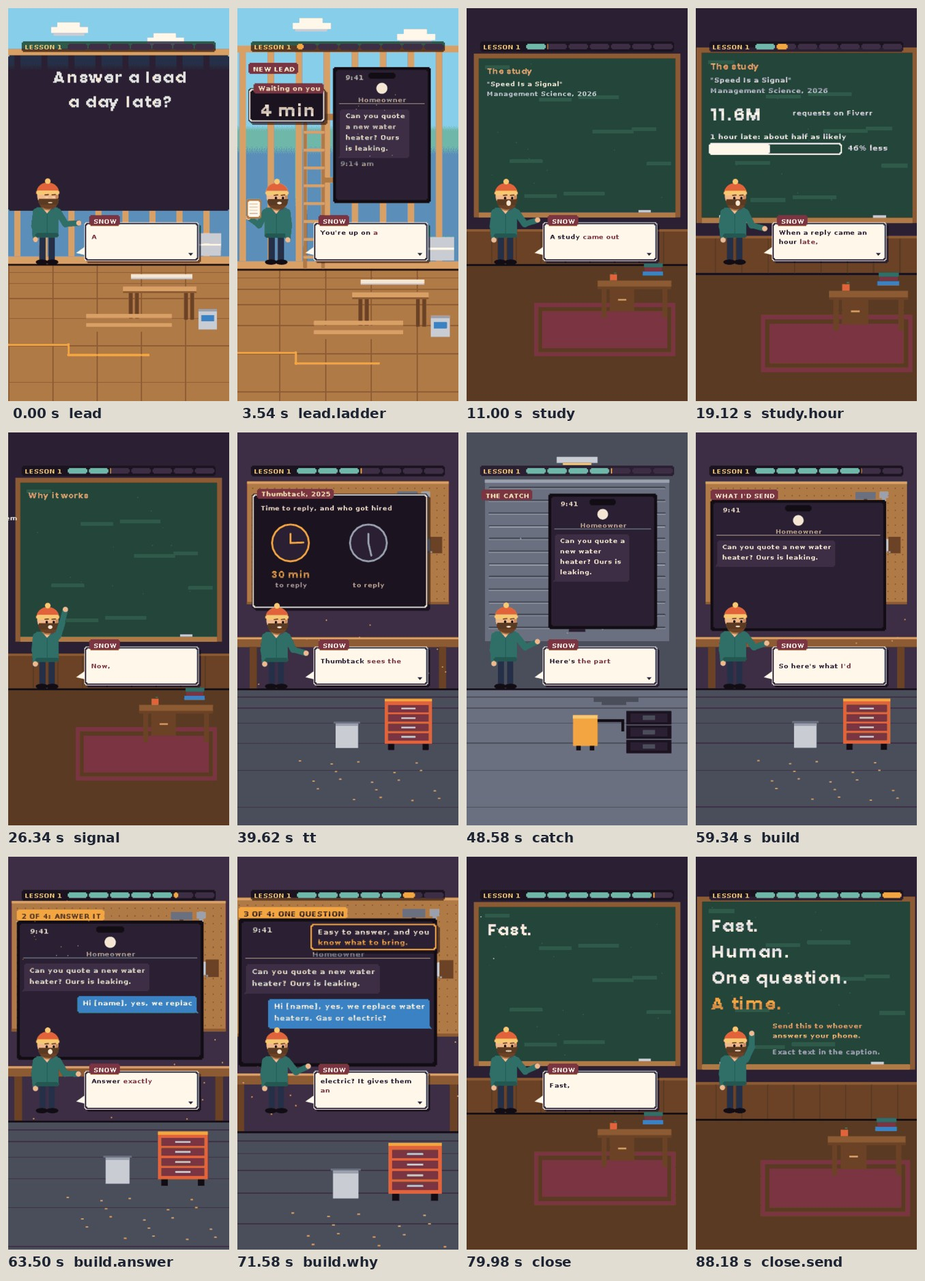
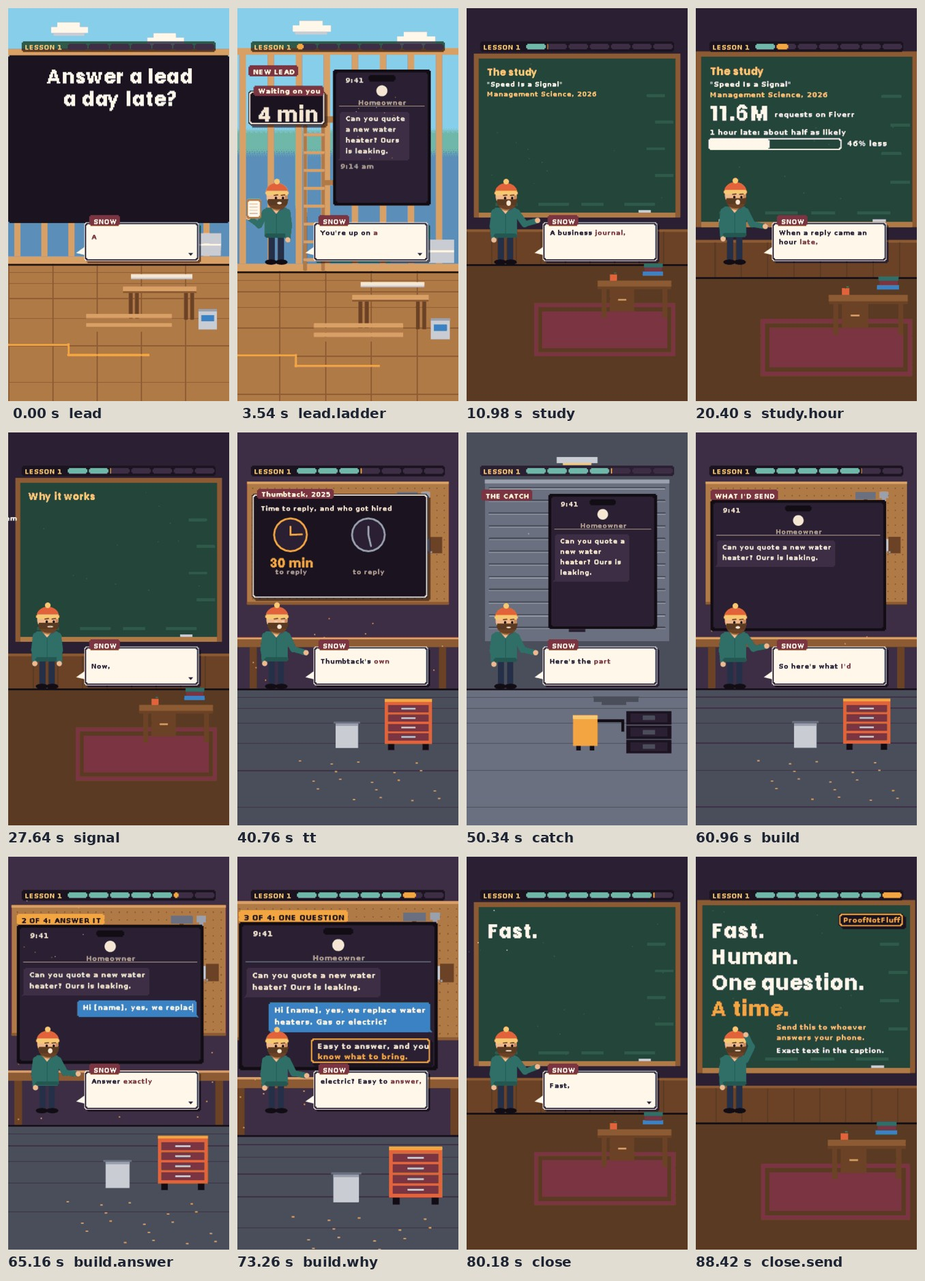
Studio: lesson 1 test video in Todd's voice; gates round 2 (critic, design FAIL twice; golden FAIL), stopped for Todd; remix command and mix compressor; layout fixes
Claude-Session: https://claude.ai/code/session_01XMn4eLbiXetQKQj9iFTZsH

diff --git a/video/studio/videos/2026-10-28-first-reply/04_scene/scene.js b/video/studio/videos/2026-10-28-first-reply/04_scene/scene.js
@@ -16,21 +16,23 @@ window.SCENE = {
   images: [],
   host_name: 'Snow',
   hud: 'LESSON 1',
-  focus: {'study.count': [300, 520], 'study.hour': [400, 660], 'study.day': [400, 780], 'signal.alone': [400, 680],
-          'tt.more': [500, 800], 'catch.canned': [665, 880], 'build.why': [650, 410], 'close.send': [600, 860]},
+  focus: {'study.count': [300, 520], 'study.hour': [400, 660], 'study.day': [400, 730], 'signal.alone': [400, 650],
+          'tt.more': [500, 740], 'catch.canned': [665, 880], 'build.why': [650, 880], 'close.send': [600, 800]},
   sections: {
     lead: (k, T) => {
       const n = k.data.numbers;
       k.room('framing');
       if (T < HOOK_END) {   // the hook card: the number that makes a pro stop scrolling
-        k.shape(k.rectPts(0, 230, 1080, 760, 0), {fill: '#120D14', line: false, alpha: 0.82});
-        k.slam('Answer a lead', 540, 280, -1, {size: 120, color: CHALK, align: 'center'});
-        k.slam('a day late?', 540, 400, -1, {size: 120, color: CHALK, align: 'center'});
-        k.slam(`${n.dayDrop.shown} less`, 540, 540, 0.3, {size: 240, color: 'accent', align: 'center', from: 1.4, shake: 8});
-        k.slam('likely to get hired.', 540, 790, 0.55, {size: 120, color: CHALK, align: 'center'});
-        k.burst(540, 640, 0.35, {n: 26, r: 380});
-        k.text(`Management Science, ${n.studyYear.shown} (Fiverr data)`, 540, 920, {size: 39, color: '#E6D3BC', align: 'center', alpha: k.clamp(T / 0.3)});
-        return {hostPose: k.talking() ? 'talk' : 'stand'};
+        // the host steps aside for the hook, so nothing covers the claim or its source (gates, Oct 28)
+        k.shape(k.rectPts(0, 230, 1080, 820, 0), {fill: '#1B1420', line: false});
+        k.slam('Answer a lead', 540, 270, -1, {size: 120, color: CHALK, align: 'center'});
+        k.slam('a day late?', 540, 380, -1, {size: 120, color: CHALK, align: 'center'});
+        k.slam(n.dayDrop.shown, 540, 470, 0.3, {size: 330, color: 'accent', align: 'center', from: 1.4, shake: 8});
+        k.slam('less likely', 540, 770, 0.55, {size: 120, color: 'accent', align: 'center'});
+        k.slam('to get hired.', 540, 870, 0.7, {size: 120, color: CHALK, align: 'center'});
+        k.burst(540, 620, 0.35, {n: 26, r: 380});
+        k.text(`Fiverr study, Management Science ${n.studyYear.shown}`, 540, 990, {size: 39, color: '#E6D3BC', align: 'center', alpha: k.clamp(T / 0.3)});
+        return {host: false};
       }
       k.ctx.save(); slideIn(k, HOOK_END, -500, 0); k.chip('New lead', 72, 280, {size: 30}); k.ctx.restore();
       k.ctx.save(); slideIn(k, HOOK_END + 0.1, 600, 0);
@@ -68,13 +70,14 @@ window.SCENE = {
       k.slam('The study', 96, 280, k.S('study'), {size: 60, color: CHALK2, from: 0.5});
       k.ctx.save(); slideIn(k, k.S('study') + 0.25, -600, 0);
       k.text('"Speed Is a Signal"', 96, 352, {size: 39, color: CHALK});
-      k.text(`Management Science, ${n.studyYear.shown}`, 96, 398, {size: 39, color: '#C9CCD3'});
+      k.text(`Management Science, ${n.studyYear.shown}`, 96, 398, {size: 39, color: CHALK2});
       k.ctx.restore();
       if (T >= k.S('study.count')) {
         const p = k.lin(k.S('study.count'), k.S('study.count') + 1.2);
-        k.slam(k.count(n.interactions.value, p, {dec: 1, suffix: 'M'}), 96, 470, k.S('study.count'), {size: 120, color: CHALK, from: 0.6});
-        if (p >= 1) k.burst(250, 530, k.S('study.count') + 1.2, {n: 14, colors: ['paper', 'accent2']});
-        k.ctx.save(); slideIn(k, k.S('study.count') + 0.3, 400, 0); k.text('requests on Fiverr', 470, 500, {size: 39, color: CHALK}); k.ctx.restore();
+        const big = k.count(n.interactions.value, 1, {dec: 1, suffix: 'M'}), bx = 96 + k.measure(big, {size: 120}) + 24;
+        k.slam(k.count(n.interactions.value, p, {dec: 1, suffix: 'M'}), 96, 440, k.S('study.count'), {size: 120, color: CHALK, from: 0.6});
+        if (p >= 1) k.burst(250, 500, k.S('study.count') + 1.2, {n: 14, colors: ['paper', 'accent2']});
+        k.ctx.save(); slideIn(k, k.S('study.count') + 0.3, 400, 0); k.text('requests on Fiverr', bx, 490, {size: 39, color: CHALK}); k.ctx.restore();
       }
       const bar = (y, label, v, shown, t0, hot) => {
         if (T < t0) return;
@@ -85,8 +88,8 @@ window.SCENE = {
         if (p > 0.6) k.slam(`${shown} less`, 720, y + 50, t0 + 0.45, {size: 39, color: hot ? 'accent' : CHALK, from: 1.2});
         if (hot) k.burst(96 + 600 * (v / 100), y + 74, t0 + 0.7, {n: 18});
       };
-      bar(610, '1 hour late: about half as likely', n.hourDrop.value, n.hourDrop.shown, k.S('study.hour'), false);
-      bar(740, '1 day late:', n.dayDrop.value, n.dayDrop.shown, k.S('study.day'), true);
+      bar(570, '1 hour late: about half as likely', n.hourDrop.value, n.hourDrop.shown, k.S('study.hour'), false);
+      bar(690, '1 day late:', n.dayDrop.value, n.dayDrop.shown, k.S('study.day'), true);
       return {};
     },
 
@@ -101,10 +104,10 @@ window.SCENE = {
       }
       if (T >= k.S('signal.alone')) {
         const t0 = k.S('signal.alone');
-        k.slam('It helped on its own:', 96, 620, t0, {size: 39, color: CHALK2, from: 0.5});
-        k.ctx.save(); slideIn(k, t0 + 0.2, -600, 0); k.text('same work, same message,', 96, 676, {size: 39, color: CHALK}); k.ctx.restore();
-        k.ctx.save(); slideIn(k, t0 + 0.4, -600, 0); k.text('faster reply still won.', 96, 726, {size: 39, color: CHALK}); k.ctx.restore();
-        k.sweep(96, 790, 560, 9, t0 + 0.7, {color: 'accent'});
+        k.slam('It helped on its own:', 96, 590, t0, {size: 39, color: CHALK2, from: 0.5});
+        k.ctx.save(); slideIn(k, t0 + 0.2, -600, 0); k.text('same work, same message,', 96, 644, {size: 39, color: CHALK}); k.ctx.restore();
+        k.ctx.save(); slideIn(k, t0 + 0.4, -600, 0); k.text('faster reply still won.', 96, 694, {size: 39, color: CHALK}); k.ctx.restore();
+        k.sweep(96, 756, 560, 9, t0 + 0.7, {color: 'accent'});
       }
       return {hostPose: k.talking() ? 'point' : 'stand', hostAt: [400, 480]};
     },
@@ -113,7 +116,7 @@ window.SCENE = {
       const n = k.data.numbers;
       k.room('workshop');
       k.ctx.save(); slideIn(k, k.S('tt'), 0, 700);
-      k.panel2(72, 300, 858, 560, {title: 'Thumbtack, 2025'});
+      k.panel2(72, 300, 858, 510, {title: 'Thumbtack, 2025'});
       k.text('Time to reply, and who got hired', 112, 350, {size: 39, color: 'ink'});
       const clock = (cx, cy, r, turns, c, t0) => {
         k.shape(k.ellPts(cx, cy, r, r, 20), {fill: '#2B2033', stroke: c, lw: 9, line: false});
@@ -121,19 +124,19 @@ window.SCENE = {
         k.shape([[cx, cy], [cx + Math.cos(ang) * r * 0.7, cy + Math.sin(ang) * r * 0.7]], {stroke: c, lw: 9, closed: false, line: false});
         k.shape([[cx, cy], [cx, cy - r * 0.5]], {stroke: c, lw: 9, closed: false, line: false});
       };
-      clock(260, 540, 90, 0.5, 'accent', k.S('tt') + 0.4); clock(640, 540, 90, 3, '#9AA0AD', k.S('tt') + 0.4);
-      k.slam(n.ttMinutes.shown, 260, 660, k.S('tt') + 0.5, {size: 60, color: 'accent', align: 'center'});
-      k.slam(n.ttHours.shown, 640, 660, k.S('tt') + 0.8, {size: 60, color: '#C9CCD3', align: 'center'});
-      k.text('to reply', 260, 726, {size: 39, color: 'muted', align: 'center'});
-      k.text('to reply', 640, 726, {size: 39, color: 'muted', align: 'center'});
+      clock(260, 500, 80, 0.5, 'accent', k.S('tt') + 0.4); clock(640, 500, 80, 3, '#9AA0AD', k.S('tt') + 0.4);
+      k.slam(n.ttMinutes.shown, 260, 600, k.S('tt') + 0.5, {size: 60, color: 'accent', align: 'center'});
+      k.slam(n.ttHours.shown, 640, 600, k.S('tt') + 0.8, {size: 60, color: '#C9CCD3', align: 'center'});
+      k.text('to reply', 260, 660, {size: 39, color: 'muted', align: 'center'});
+      k.text('to reply', 640, 660, {size: 39, color: 'muted', align: 'center'});
       k.ctx.restore();
       if (T >= k.S('tt.more')) {
         const q = k.clamp(k.pop(k.S('tt.more')), 0, 1.15);
-        k.ctx.save(); k.ctx.translate(500, 800); k.ctx.scale(q, q); k.ctx.translate(-500, -800);
-        k.panel2(112, 774, 778, 72, {fill: 'accent', border: '#1B1420'});
-        k.text(`${n.ttMore.shown} more likely to get hired`, 501, 788, {size: 39, color: '#1B1420', align: 'center'});
+        k.ctx.save(); k.ctx.translate(500, 742); k.ctx.scale(q, q); k.ctx.translate(-500, -742);
+        k.panel2(112, 712, 778, 72, {fill: 'accent', border: '#1B1420'});
+        k.text(`${n.ttMore.shown} more likely to get hired`, 501, 726, {size: 39, color: '#1B1420', align: 'center'});
         k.ctx.restore();
-        k.burst(260, 790, k.S('tt.more') + 0.05, {n: 20});
+        k.burst(260, 730, k.S('tt.more') + 0.05, {n: 20});
       }
       return {};
     },
@@ -147,8 +150,11 @@ window.SCENE = {
         {text: 'Thank you for your inquiry. A representative will be in touch.', me: true, at: k.S('catch') + 0.7, stamp: 'auto-reply'},
       ], {who: 'Homeowner', size: 39});
       k.ctx.restore();
-      if (T >= k.S('catch.canned')) {
-        const t0 = k.S('catch.canned'), q = k.clamp((T - t0) / 0.18);
+      const ws = (window.WORDS && window.WORDS.words) || [];
+      const dc = ws.find((w) => w.start >= k.S('catch.canned') && /^doesn/i.test(w.w));
+      const tStamp = dc ? dc.start : k.S('catch.canned') + 3;
+      if (T >= tStamp) {
+        const t0 = tStamp, q = k.clamp((T - t0) / 0.18);
         k.ctx.save(); k.ctx.translate(665, 905); k.ctx.rotate(-0.1); const s = 2.2 - 1.2 * q; k.ctx.scale(s, s);
         k.shape(k.rectPts(-230, -60, 460, 120, 0), {fill: '#1B1420', line: false, alpha: q});
         k.shape(k.rectPts(-224, -54, 448, 108, 0), {stroke: 'accent', lw: 9, line: false, alpha: q});
@@ -156,7 +162,7 @@ window.SCENE = {
         k.ctx.restore();
         k.burst(665, 905, t0 + 0.18, {n: 22, r: 300, colors: ['accent', '#9AA0AD', 'paper']});
       }
-      return {hostPose: k.live('catch.canned') ? 'shrug' : (k.talking() ? 'talk' : 'stand')};
+      return {hostPose: T >= tStamp ? 'shrug' : (k.talking() ? 'talk' : 'stand')};
     },
 
     build: (k, T) => {
@@ -183,9 +189,9 @@ window.SCENE = {
       if (T >= k.S('build.why') && T < k.S('build.time')) {
         const t0 = k.S('build.why');
         k.ctx.save(); slideIn(k, t0, 700, 0);
-        k.panel2(380, 350, 550, 120, {fill: '#2B2033', border: 'accent'});
-        k.text('Easy to answer, and you', 410, 368, {size: 39, color: 'ink'});
-        k.text('know what to bring.', 410, 414, {size: 39, color: 'accent'});
+        k.panel2(380, 830, 520, 112, {fill: '#2B2033', border: 'accent'});
+        k.text('Easy to answer, and you', 408, 846, {size: 39, color: 'ink'});
+        k.text('know what to bring.', 408, 890, {size: 39, color: 'accent'});
         k.ctx.restore();
       }
       return {hostPose: k.talking() ? 'talk' : 'stand'};
@@ -205,10 +211,13 @@ window.SCENE = {
       if (T >= k.S('close.send')) {
         const t0 = k.S('close.send');
         k.ctx.save(); slideIn(k, t0, 700, 0);
-        k.text('Send this to whoever', 380, 800, {size: 39, color: CHALK2});
-        k.text('answers your phone.', 380, 846, {size: 39, color: CHALK2});
+        k.text('Send this to whoever', 400, 790, {size: 39, color: CHALK2});
+        k.text('answers your phone.', 400, 836, {size: 39, color: CHALK2});
         k.ctx.restore();
-        k.ctx.save(); slideIn(k, t0 + 0.8, 700, 0); k.text('Exact text in the caption.', 380, 920, {size: 39, color: '#C9CCD3'}); k.ctx.restore();
+        k.ctx.save(); slideIn(k, t0 + 0.8, 700, 0); k.text('Exact text in the caption.', 400, 896, {size: 39, color: CHALK}); k.ctx.restore();
+        k.ctx.save(); slideIn(k, t0 + 1.4, 500, 0);
+        k.panel2(690, 282, 300, 64, {fill: '#1B1420', border: 'accent'}); k.text('ProofNotFluff', 840, 294, {size: 39, color: 'accent', align: 'center'});
+        k.ctx.restore();
       }
       return {hostPose: T >= k.S('close.send') + 1.5 ? 'wave' : 'talk'};
     },

diff --git a/video/studio/videos/2026-10-28-first-reply/03_cues/cues.js b/video/studio/videos/2026-10-28-first-reply/03_cues/cues.js
@@ -1,1 +1,1 @@
-window.CUES = {"schema": "pnf.studio.cues.v1", "source": "whisper medium.en int8, re-spelled from script.md", "music": {"id": "steady-hands", "level": 0.12}, "duration": 88.42, "cues": [{"id": "lead", "level": 0, "quote": "A homeowner just texted you", "sfx": "pop", "shift": 0.0, "pin": null, "text": "Room: framing (a half-finished house). Snow on the floor; a phone panel with the lead's text; chip NEW LEAD.", "t": 0.0, "word": 0, "end": 10.4}, {"id": "lead.ladder", "level": 1, "quote": "You're up on a ladder,", "sfx": null, "shift": 0.0, "pin": null, "text": "A ladder leans in; the reply clock starts ticking.", "t": 3.16, "word": 8, "end": 6.7}, {"id": "lead.show", "level": 1, "quote": "Here's why tonight is", "sfx": "blip", "shift": 0.0, "pin": null, "text": "Panel: \"Tonight is too late.\" in the accent.", "t": 6.7, "word": 22, "end": 10.4}, {"id": "study", "level": 0, "quote": "A study came out this", "sfx": "whoosh", "shift": 0.0, "pin": null, "text": "Room: blackboard. Chalk header: THE STUDY. Speed Is a Signal, Management Science, 2026.", "t": 10.4, "word": 33, "end": 26.08}, {"id": "study.count", "level": 1, "quote": "eleven point six million requests", "sfx": "tick", "shift": 0.0, "pin": null, "text": "11.6M counts up in chalk: requests on Fiverr.", "t": 14.36, "word": 46, "end": 18.72}, {"id": "study.hour", "level": 1, "quote": "an hour late, that person", "sfx": "tick", "shift": 0.0, "pin": null, "text": "Chalk bar: 1 hour late, about half as likely (46% less).", "t": 18.72, "word": 57, "end": 22.8}, {"id": "study.day", "level": 1, "quote": "A day late? About", "sfx": "stamp", "shift": 0.0, "pin": null, "text": "Chalk bar: 1 day late, 90% less, in the accent.", "t": 22.8, "word": 70, "end": 26.08}, {"id": "signal", "level": 0, "quote": "Now, Fiverr isn't the", "sfx": "blip", "shift": 0.0, "pin": null, "text": "Still the blackboard, wiped: \"Reply speed = how you'll treat them later.\"", "t": 26.08, "word": 77, "end": 39.84}, {"id": "signal.alone", "level": 1, "quote": "And it helped on its", "sfx": "tick", "shift": 0.0, "pin": null, "text": "Second chalk line: \"Even with the same work, same message.\"", "t": 34.82, "word": 101, "end": 39.84}, {"id": "tt", "level": 0, "quote": "Thumbtack sees the same thing", "sfx": "whoosh", "shift": 0.0, "pin": null, "text": "Room: workshop. Panel THUMBTACK, 2025: two clocks, 30 min and 3 hrs.", "t": 39.84, "word": 118, "end": 48.48}, {"id": "tt.more", "level": 1, "quote": "twenty-five percent more likely", "sfx": "pop", "shift": 0.0, "pin": null, "text": "+25% stamps on the 30 min side: more likely to get hired.", "t": 43.74, "word": 130, "end": 48.48}, {"id": "catch", "level": 0, "quote": "Here's the part people skip.", "sfx": "blip", "shift": 0.0, "pin": null, "text": "Room: garage. A phone panel; the canned auto-reply arrives.", "t": 48.48, "word": 143, "end": 58.96}, {"id": "catch.canned", "level": 1, "quote": "So that canned thank you", "sfx": "stamp", "shift": 0.0, "pin": null, "text": "Stamp: DOESN'T COUNT. Snow shrugs.", "t": 52.84, "word": 156, "end": 58.96}, {"id": "build", "level": 0, "quote": "So here's what I'd", "sfx": "whoosh", "shift": 0.0, "pin": null, "text": "Room: workshop. A big phone; the reply types in line by line.", "t": 58.96, "word": 171, "end": 79.2}, {"id": "build.name", "level": 1, "quote": "Start with their name,", "sfx": "tick", "shift": 0.0, "pin": null, "text": "\"Hi [name],\" types in. Chip 1 OF 4: THEIR NAME, so it's clearly you.", "t": 60.44, "word": 176, "end": 63.0}, {"id": "build.answer", "level": 1, "quote": "Answer exactly what they asked:", "sfx": "tick", "shift": 0.0, "pin": null, "text": "\"yes, we replace water heaters.\" Chip 2 OF 4: ANSWER IT.", "t": 63.0, "word": 184, "end": 67.12}, {"id": "build.ask", "level": 1, "quote": "Ask one question that", "sfx": "tick", "shift": 0.0, "pin": null, "text": "\"Gas or electric?\" Chip 3 OF 4: ONE QUESTION.", "t": 67.12, "word": 194, "end": 70.98}, {"id": "build.why", "level": 1, "quote": "It gives them an easy", "sfx": null, "shift": 0.0, "pin": null, "text": "Side note under the phone: easy to answer, and you know what to bring.", "t": 70.98, "word": 205, "end": 74.92}, {"id": "build.time", "level": 1, "quote": "Then a real time.", "sfx": "tick", "shift": 0.0, "pin": null, "text": "\"I can come by Thursday, 2 to 4.\" Chip 4 OF 4: A REAL TIME.", "t": 74.92, "word": 221, "end": 79.2}, {"id": "close", "level": 0, "quote": "Fast, human, one question,", "sfx": "stamp", "shift": 0.0, "pin": null, "text": "Room: blackboard. Chalk rule: FAST. HUMAN. ONE QUESTION. A TIME.", "t": 79.2, "word": 234, "end": 88.42}, {"id": "close.send", "level": 1, "quote": "Send this to whoever", "sfx": "blip", "shift": 0.0, "pin": null, "text": "\"Send this to whoever answers your phone.\" Exact text in the caption. ProofNotFluff.", "t": 82.22, "word": 240, "end": 88.42}]};
+window.CUES = {"schema": "pnf.studio.cues.v1", "source": "whisper medium.en int8, re-spelled from script.md", "music": {"id": "steady-hands", "level": 0.12}, "duration": 88.72, "cues": [{"id": "lead", "level": 0, "quote": "A homeowner just texted you", "sfx": "pop", "shift": 0.0, "pin": null, "text": "Room: framing (a half-finished house). Snow on the floor; a phone panel with the lead's text; chip NEW LEAD.", "t": 0.0, "word": 0, "end": 10.38}, {"id": "lead.ladder", "level": 1, "quote": "You're up on a ladder,", "sfx": null, "shift": 0.0, "pin": null, "text": "A ladder leans in; the reply clock starts ticking.", "t": 2.94, "word": 8, "end": 6.52}, {"id": "lead.show", "level": 1, "quote": "Here's why tonight is", "sfx": "blip", "shift": 0.0, "pin": null, "text": "Panel: \"Tonight is too late.\" in the accent.", "t": 6.52, "word": 22, "end": 10.38}, {"id": "study", "level": 0, "quote": "A business journal, Management Science,", "sfx": "whoosh", "shift": 0.0, "pin": null, "text": "Room: blackboard. Chalk header: THE STUDY. Speed Is a Signal, Management Science, 2026.", "t": 10.38, "word": 33, "end": 27.04}, {"id": "study.count", "level": 1, "quote": "eleven point six million requests", "sfx": "tick", "shift": 0.0, "pin": null, "text": "11.6M counts up in chalk: requests on Fiverr.", "t": 15.7, "word": 47, "end": 19.8}, {"id": "study.hour", "level": 1, "quote": "an hour late, that person", "sfx": "tick", "shift": 0.0, "pin": null, "text": "Chalk bar: 1 hour late, about half as likely (46% less).", "t": 19.8, "word": 58, "end": 23.92}, {"id": "study.day", "level": 1, "quote": "A day late? About", "sfx": "stamp", "shift": 0.0, "pin": null, "text": "Chalk bar: 1 day late, 90% less, in the accent.", "t": 23.92, "word": 71, "end": 27.04}, {"id": "signal", "level": 0, "quote": "Now, Fiverr isn't the", "sfx": "blip", "shift": 0.0, "pin": null, "text": "Still the blackboard, wiped: \"Reply speed = how you'll treat them later.\"", "t": 27.04, "word": 78, "end": 40.16}, {"id": "signal.alone", "level": 1, "quote": "And it helped on its", "sfx": "tick", "shift": 0.0, "pin": null, "text": "Second chalk line: \"Even with the same work, same message.\"", "t": 35.1, "word": 102, "end": 40.16}, {"id": "tt", "level": 0, "quote": "Thumbtack's own data shows", "sfx": "whoosh", "shift": 0.0, "pin": null, "text": "Room: workshop. Panel THUMBTACK, 2025: two clocks, 30 min and 3 hrs.", "t": 40.16, "word": 119, "end": 49.74}, {"id": "tt.more", "level": 1, "quote": "twenty-five percent more likely", "sfx": "pop", "shift": 0.0, "pin": null, "text": "+25% stamps on the 30 min side: more likely to get hired.", "t": 44.74, "word": 133, "end": 49.74}, {"id": "catch", "level": 0, "quote": "Here's the part people skip.", "sfx": "blip", "shift": 0.0, "pin": null, "text": "Room: garage. A phone panel; the canned auto-reply arrives.", "t": 49.74, "word": 146, "end": 60.36}, {"id": "catch.canned", "level": 1, "quote": "So that canned thank you", "sfx": "stamp", "shift": 0.0, "pin": null, "text": "Stamp: DOESN'T COUNT. Snow shrugs.", "t": 54.3, "word": 159, "end": 60.36}, {"id": "build", "level": 0, "quote": "So here's what I'd", "sfx": "whoosh", "shift": 0.0, "pin": null, "text": "Room: workshop. A big phone; the reply types in line by line.", "t": 60.36, "word": 174, "end": 79.58}, {"id": "build.name", "level": 1, "quote": "Start with their name,", "sfx": "tick", "shift": 0.0, "pin": null, "text": "\"Hi [name],\" types in. Chip 1 OF 4: THEIR NAME, so it's clearly you.", "t": 61.94, "word": 179, "end": 64.56}, {"id": "build.answer", "level": 1, "quote": "Answer exactly what they asked:", "sfx": "tick", "shift": 0.0, "pin": null, "text": "\"yes, we replace water heaters.\" Chip 2 OF 4: ANSWER IT.", "t": 64.56, "word": 187, "end": 68.84}, {"id": "build.ask", "level": 1, "quote": "Ask one question that", "sfx": "tick", "shift": 0.0, "pin": null, "text": "\"Gas or electric?\" Chip 3 OF 4: ONE QUESTION.", "t": 68.84, "word": 197, "end": 72.66}, {"id": "build.why", "level": 1, "quote": "Easy to answer, and you", "sfx": null, "shift": 0.0, "pin": null, "text": "Side note under the phone: easy to answer, and you know what to bring.", "t": 72.66, "word": 208, "end": 75.24}, {"id": "build.time", "level": 1, "quote": "Then a real time.", "sfx": "tick", "shift": 0.0, "pin": null, "text": "\"I can come by tomorrow, 2 to 4.\" Chip 4 OF 4: A REAL TIME.", "t": 75.24, "word": 217, "end": 79.58}, {"id": "close", "level": 0, "quote": "Fast, human, one question,", "sfx": "stamp", "shift": 0.0, "pin": null, "text": "Room: blackboard. Chalk rule: FAST. HUMAN. ONE QUESTION. A TIME.", "t": 79.58, "word": 230, "end": 88.72}, {"id": "close.send", "level": 1, "quote": "Send this to whoever", "sfx": "blip", "shift": 0.0, "pin": null, "text": "\"Send this to whoever answers your phone.\" Exact text in the caption. ProofNotFluff.", "t": 82.58, "word": 236, "end": 88.72}]};

diff --git a/video/studio/_runtime/player.js b/video/studio/_runtime/player.js
@@ -32,7 +32,10 @@
   }
 
   function speechBox(k, T) {
-    const ph = phrases.find((p) => T >= p.t0 && T < p.t1);
+    let i = phrases.findIndex((p) => T >= p.t0 && T < p.t1);
+    // between takes the box keeps the last full line until the next word is said, so it never sits empty
+    if (i > 0 && T < phrases[i].words[0].start) i -= 1;
+    const ph = phrases[i];
     if (!ph) return;
     const arcade = !!look.bitmap;
     const B = arcade ? {x: 372, y: 1046, w: 560, h: 190} : {x: 300, y: 1088, w: 628, h: 150};
@@ -118,14 +121,14 @@
     const moving = !!look.bitmap || window.SCENE.motion;
     if (!moving && sec !== tops[0] && into < 0.28) { const e = k.easeOut(into / 0.28); ctx.translate((1 - e) * 140, 0); ctx.globalAlpha = 0.25 + 0.75 * e; }
     let zoom = 1 + 0.03 * Math.min(1, into / Math.max(1, sec.end - sec.t));   // a slow push-in through each section
-    let fx = 540, fy = 620, sx = 0, sy = 0;
+    let fx = 540, fy = 300, sx = 0, sy = 0;   // zoom from the top band, so headers never climb under the Reel's top bar
     if (moving) {
       // the zoom ladder: every beat inside a section steps the camera in a little, with a springy overshoot
       const beats = cues.filter((c) => c.level > 0 && c.t > sec.t && c.t <= T && c.t < sec.end);
       beats.forEach((c, i) => { if (i < 4) zoom += 0.028 * k.back((T - c.t) / 0.3); });
       const fo = (window.SCENE.focus || {});
       const last = beats.length ? beats[beats.length - 1] : sec;
-      if (fo[last.id] || fo[sec.id]) { const [ax, ay] = fo[last.id] || fo[sec.id]; const q = k.easeOut((T - last.t) / 0.6); fx = 540 + (ax - 540) * 0.35 * q; fy = 620 + (ay - 620) * 0.35 * q; }
+      if (fo[last.id] || fo[sec.id]) { const [ax, ay] = fo[last.id] || fo[sec.id]; const q = k.easeOut((T - last.t) / 0.6); fx = 540 + (ax - 540) * 0.2 * q; fy = 300 + (ay - 300) * 0.2 * q; }
       // a short shake on every stamp
       cues.forEach((c) => { const d = T - c.t; if (c.sfx === 'stamp' && d >= 0 && d < 0.32) { const a = 7 * (1 - d / 0.32); sx += Math.sin(T * 91) * a; sy += Math.cos(T * 73) * a; } });
       // a section opens with a hard punch-in that settles

diff --git a/video/studio/_runtime/kit.js b/video/studio/_runtime/kit.js
@@ -535,7 +535,8 @@
         R(0, 1080, 1080, 170, '#6B4226'); R(0, 1080, 1080, 12, '#8C5A33');
         for (let x = 0; x < 1080; x += 120) R(x, 1092, 6, 158, '#5A3A22');
         R(36, 222, 1008, 800, '#8C5A33'); R(60, 246, 960, 752, '#24453A');
-        for (let i = 0; i < 9; i++) R(90 + ((i * 263) % 860), 280 + ((i * 157) % 640), 120 + (i % 3) * 40, 18, '#2F5A4A');
+        // chalk smudges only where text never goes: the board's right strip and its bottom band (design gate, Oct 28)
+        for (let i = 0; i < 4; i++) { R(880 + (i % 2) * 40, 420 + i * 130, 90, 14, '#2F5A4A'); R(140 + i * 210, 950, 110 + (i % 2) * 40, 14, '#2F5A4A'); }
         R(60, 998, 960, 24, '#B07A47'); R(140, 986, 48, 12, '#FFF7EA'); R(230, 990, 30, 9, '#F7C873'); R(840, 986, 60, 12, '#C9CCD3');
       } else if (name === 'workshop') {
         R(0, 0, 1080, 1920, '#3D2E45');

diff --git a/video/studio/anim.py b/video/studio/anim.py
@@ -9,6 +9,7 @@ fresh reviewer checks before the next stage runs.
   ci-voice                 (the workflow) speak, join, transcribe, re-spell, pace; text to main, audio to video-renders
   estimate SLUG            stand-in word timings from script.md (marked estimate: for storyboards and looks, never posted)
   fetch SLUG               pull this video's audio from the video-renders branch
+  remix SLUG               mix the sound again onto the finished render (video copied)
   cues SLUG                match cues.md quotes to words.json -> cues.json, cues.js; prints the timing table
   grab SLUG                capture docs/chicago-rat-complaints/ at phone width -> 04_scene/assets/rat-page.png
   stills SLUG [--look L]   a frame at every cue -> 05_render/sheets/*.jpg and 05_render/sheet.jpg
@@ -636,7 +637,9 @@ def mix(slug, seconds, out_wav, cues):
         ms = int(c["t"] * 1000)
         filt.append(f"[{i}:a]aresample=48000,aformat=channel_layouts=stereo,volume=-13dB,adelay={ms}|{ms},apad,atrim=0:{seconds}[s{i}]")
         labels.append(f"[s{i}]")
-    filt.append("".join(labels) + f"amix=inputs={len(labels)}:normalize=0:duration=longest,atrim=0:{seconds}[a]")
+    # a gentle compressor evens out the voice's peaks, so loudness can reach -14 LUFS under the -1.5 dBTP ceiling
+    filt.append("".join(labels) + f"amix=inputs={len(labels)}:normalize=0:duration=longest,atrim=0:{seconds},"
+                "acompressor=threshold=0.125:ratio=2.5:attack=5:release=120:makeup=1[a]")
     tmp = out_wav + ".pre.wav"
     sh(["ffmpeg", "-y", "-loglevel", "error", *inputs, "-filter_complex", ";".join(filt), "-map", "[a]", "-ar", "48000", "-ac", "2", tmp])
     r = sh(["ffmpeg", "-hide_banner", "-i", tmp, "-af", "loudnorm=I=-14:TP=-2.0:LRA=11:print_format=json", "-f", "null", "-"], check=False)
@@ -649,6 +652,19 @@ def mix(slug, seconds, out_wav, cues):
         f"alimiter=limit={lim:.4f}:attack=1:release=60:level=disabled,aresample=48000", "-ar", "48000", "-ac", "2", out_wav])
     os.remove(tmp)
     return has_voice
+
+
+def cmd_remix(slug):
+    """Mix the sound again onto the finished render (video copied), after a sound-only fix."""
+    cues = json.load(open(vdir(slug, "03_cues", "cues.json")))
+    out = vdir(slug, "05_render", f"{slug}.mp4")
+    tmp = tempfile.mkdtemp(); wav = os.path.join(tmp, "a.wav")
+    mix(slug, cues["duration"], wav, cues)
+    new = os.path.join(tmp, "new.mp4")
+    sh(["ffmpeg", "-y", "-loglevel", "error", "-i", out, "-i", wav, "-map", "0:v:0", "-map", "1:a:0", "-c:v", "copy",
+        "-c:a", "aac", "-b:a", "192k", "-ar", "48000", "-shortest", "-movflags", "+faststart", new])
+    shutil.move(new, out); shutil.rmtree(tmp, ignore_errors=True)
+    print(f"remix: {out}")
 
 
 def cmd_render(slug, look=None, t_from=None, t_to=None, out=None):
@@ -768,6 +784,8 @@ def main():
         cmd_grab(a.slug)
     elif c == "stills":
         cmd_stills(a.slug, a.look)
+    elif c == "remix":
+        cmd_remix(a.slug)
     elif c == "render":
         cmd_render(a.slug, a.look, a.t_from, a.t_to, a.out)
     elif c == "check":

diff --git a/coo/DECISIONS-2026-10-28.md b/coo/DECISIONS-2026-10-28.md
@@ -49,3 +49,4 @@
 - 1:41 pm [stated] Todd sent his ElevenLabs Voice ID: "W3pJy9ibur1FKUihVxzY"
 - So: his clone becomes the default voice (steadier settings for "smoother and more confident"); Chris stays as the fallback. Lesson 1 is re-voiced in full with his clone.
 - Test video round 1 (Claude's gates, no new words from Todd): facts PASS 12/0 after one caption fix; buyer PASS (stop, send, save yes; follow no); render critic FAIL 4 faults; design FAIL 3.86 (the pixel s read as e). One fix round: open display s (Poppins 15 px), seamless pixel rows, hook card and boards kept clear of the host, stamp after the quote, steadier camera; script takes 2, 4, 6 re-voiced ("A business journal, Management Science", "Thumbtack's own data", "tomorrow between two and four").
+- Test video round 2 (Claude's gates): QA PASS (88.7 s, -14.7 LUFS after a compressor in the mix); render critic FAIL 3 overlaps (second FAIL); design FAIL 3.71 (second FAIL; type up to 4, spacing and polish 3); golden FAIL (host hides the payoff line, the dialog tag hides the hook's source). By the studio contract the video stops here and goes to Todd with the fix list; nothing is fixed further without his word.

diff --git a/coo/HANDOFF.md b/coo/HANDOFF.md
@@ -13,5 +13,5 @@
 - Oct 25: credits plan (DECISIONS-2026-10-25): audit Oct 28; bursts Oct 29, Nov 2. Area seats live Oct 26, 6 open.
 - Oct 26 pm: TRAFFIC FIRST; no builder outreach. Kimi R8 kept.
 - Oct 27: trade owners only; free plan waits (DECISIONS-2026-10-27). Trades News (daily 6:32), maps, templates live. R10: 11 free data pages and redesign live (/chicago-data/, site/datahub.json); inspections by area, Quarterly open (W).
-- Oct 28: video/studio lesson 1 voiced, arcade look test sent; waits on Todd's go.
+- Oct 28: studio lesson 1 test sent; gates FAIL twice (3 overlaps); waits on Todd.
 - Oct 25: Chief of Staff live (DECISIONS-2026-10-25): sweep (PC, sole reply-status writer), brief, Sun review.
